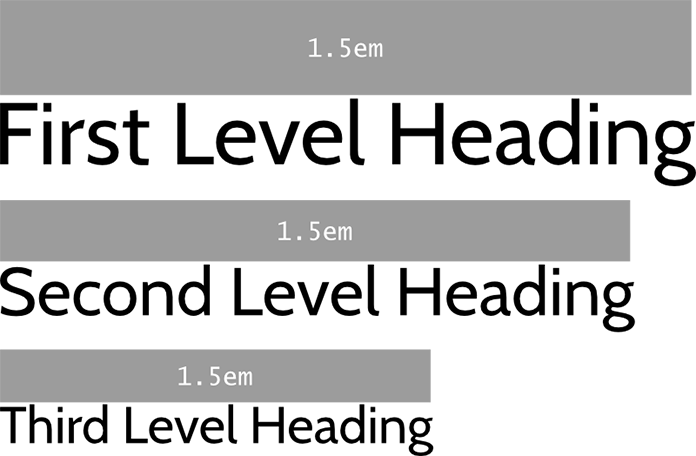
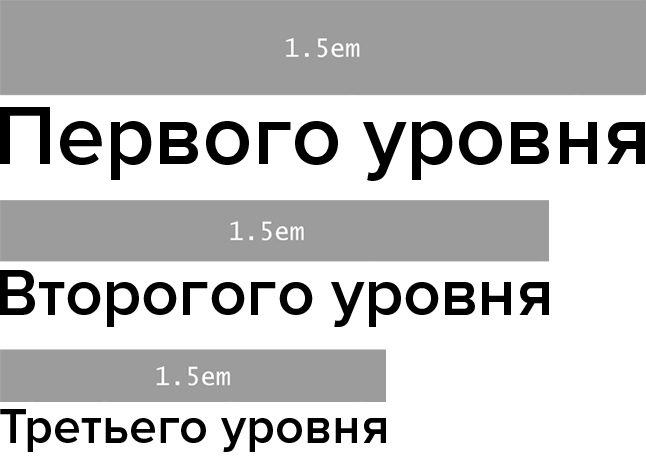
перевод

diff --git a/rus.md b/rus.md
@@ -1,0 +1,320 @@
+# Аксиоматический CSS и лоботомированные совы.
+
+На последнем [CSS Day][1] в июне я с трепетом представил странный трехсимвольный 
+css-селектор. Он назывался «лоботомированная сова» из за его сходства с пустым
+взглядом взглядом этой птички и это оказалась самая популярная часть [моего доклада][2].
+
+Я не могу сказать что вызывало их восторг, идея или, напротив, они нервно 
+хохотали над дерзостью использования столь странной и очевидно бесполезной 
+конструкции. Или возможно я невольно оказался в комнате полной совопоклонниками. 
+Не знаю.
+
+Селектор лоботомированной совы выглядит так:
+
+    * + *
+
+Несмотря на непочтительное имя и сомнительную форму, селектор лоботимированной 
+совы это не просто игра ума. Это результат продолжительных экспериментов с 
+автоматизацией лаяутов с поточным контентом. Совоселектор это аксиоматичный 
+жадный селектор. Ввиду этого многие усомнятся в целесообразности
+его использования, а то, что я использовал его на продакшене кого то и вовсе 
+повергнет в ужас. Но сейчас я продемонстрирую как этот селектор упростит код, 
+ускорит процесс разработки и поможет автоматизировать произвольный, динамический
+контент.
+
+
+## Стилизация по умолчанию
+
+Почти повсеместно, профессиональные дизайнеры веб-интерфейсов (хорошо, 
+разработчики, или как вам там будет угодно) приучили себя стилизировать
+HTML элементы *по умолчанию*. Мы представляем себе элемент интерфейса и затем
+соответствующим образом стилизируем элемент, который вручную добавляем в разметку. 
+
+Чаще всего мы используем для этого селектор по классу, несмотря на то что он 
+отвечает только за представление, а не семантическое соответствие. В то время, 
+как элементы и большинство атрибутов предопределены и стандартизированы, классы
+предоставляют нам свободу творчества. Классы дают нам контроль.
+
+    .my-module {
+      /* ... */
+    }
+
+CSS фреймворки это в основном библиотеки нестандартизированных, основанных на 
+классах, кодов, предназначенных для того, что бы сформировать явное соответствие 
+между стилями и элементами, к которым они применяются. Их хвалят за то, что с их 
+помощью дизайнеры могут быстро создавать привлекательные внешне интерфейсы и 
+критикуют за неизбежные недостатки в области их доступности, которые проистекают
+из того, что основным является представление (форма), а не контент (функция).
+    
+    <a class="ui-button">Нажми меня</a>
+
+Вне зависимости от того, что вы используете — фреймворк или собственную 
+методологию, такой подход не позволяет подключать к работе далеких от техники
+контент-редакторов. Он требует не только знания разметки, отвечающей за 
+представление, но и доступа к ней, что бы соответствующим образом разметить
+контент. WYSIWYG-редакторы и инструменты вроде маркдауна определенно недостаточно
+сложны для того, что бы необходимость стилизации не усложняла работу с материалами.
+
+
+## Разрастание кода
+
+Вне зависимости от того можешь ли ты создать и поддерживать разметку, отвечающую
+за представление, остается вопрос *а надо ли*. Добавление шифров, отвечающие за 
+представление в изначально лаконичную разметку непременно приведет к её разрастанию, 
+но что мы получим в замен? Это позволит нам упростить таблицы стилей?
+
+Выбрав стилизацию полностью на основе элементов мы ошибочно предполагаем что HTML
+элементы существуют в вакууме, а не являются объектом наследования и не 
+принадлежат своему контексту. Рассматривая элемент как «штуку для которой надо
+написать стили» мы наделяем конкретный элемент избыточным значением и определяем
+для него стили, которые должны были быть определены выше в каскаде. Добавление
+новых модулей в проект приводит к неконтролируемому разрастанию кода. 
+
+
+    .module-new {
+      /* И … что в нем нового? */
+    }
+
+Что касается препроцессоров с их одержимостью переменными и 
+объектно-ориентированными CSS-методологиями, их переиспользуемыми объектами
+классов — с их помощью мы сбрасываем балласт что бы остановить разрастание кода.
+Это одержимость нашей индустрии. Однако большинство из них навязывают философию,
+которая, в первую очередь, и порождает разрастание кода. Некоторые из них даже
+навязывают плоскую структуру css, цитируя [решение проблемы веса селекторов][3] —
+эффективен переход от CSS к SS (*От каскадных таблиц стилей к просто 
+таблицам стилей. Без использования каскада. __Примечание переводчика.__*) и 
+отказ от одного из основных его достоинств.
+
+Я не осуждаю эти подходы, но существуют и другие методы, которые могут оказаться 
+при определенных условиях более эффективны. А теперь пристегните ремни.
+
+## Производительность селекторов
+
+Я прощаю то, что некоторые из вас начали качать головами в неодобрении увидев 
+два астериска в селекторе `* + *` в начале статьи. Вот прецедент. 
+[Универсальный селектор][4] это действительно мощный инструмент. И его можно 
+использовать во благо, не только во зло. Прежде чем углубиться в это, однако,
+я хотел бы обсудить проблему быстродействия.
+
+Все исследования, которые мне довелось прочесть, включая исследования [Стива Шодерса][5]
+(Steve Souders) и [Бена Фрэйна][6] (Ben Frain), пришли к выводу, что сравнительное
+быстродействие CSS селекторов разных типов показывает, что разница пренебрежительно
+мала. Фактически Фрэйн заключает, что «заморачиваться по поводу селекторов в 
+современных браузерах бесполезно». И я пока не встречал ни одного убедительного
+аргумента опровергающего результаты этих исследований.
+
+Согласно Фрэйну, напротив, это количество CSS-селекторов, разрастание кода, может
+привести к проблемам; особо он упоминает неиспользуемые, но объявленные css-правила. 
+Другими словами, выбирать селекторы по классу за их «скорость» бесполезно, если
+их количество это и есть то, что вызывает настоящие проблемы с производительностью. 
+Ну, это, гигантские JPEGи и веб-шрифты, которые не были урезаны до необходимого
+подмножества символов.
+
+Наоборот, одновременный контроль множества элементов селектора `*` делает код 
+лаконичнее, помогает уменьшить размер файла и улучшить производительность.
+
+*Настоящая* проблема с универсальным селектором в том, что он сам по себе не 
+представляет ничего, кроме «применяем стили, что бы это ни было». Фокус в том, 
+как использовать его для создания более сложных селекторов, учитывающих контекст.
+
+## Разбираемся с отступами
+
+Проблема с ограничением области действия стилей до одного элемента в том, что не
+все должно рассматриваться как *вещь в себе*. Например отступы: отступы это то,
+что разделяет элементы. Само по себе применение верхнего отступа к элементу 
+бессмысленно, вне зависимости от того как часто или редко ты это делаешь. Это 
+все равно что намазать клеем одну сторону объекта до того как ты решишь его 
+приклеить и определишься с тем, куда именно.
+
+    .module-new {
+      margin-bottom: 3em; /* что, каждый раз? */
+    }
+
+
+Что нам нужно, так это выражение (селектор), которое соответствует элементам,
+которым нужен отступ. И это только элементы находящиеся в одном контексте с 
+другими, соседними, элементами. [Селектор соседа][7] делает именно это: используя
+форму `x + n`, мы можем добавить верхний отступ любому элементу `n`, перед которым
+есть `x`. 
+
+В обычном случае эта задача очень быстро приведет к описанию множества возможных 
+случаев, если мы начнем создавать правила для каждого варианта соседства. Вот
+почем мы используем вышеупомянутый универсальный селектор, создавая мордочку
+совы. Аксиома следующая: «Все элементы в потоке, которые расположены после другого 
+элемента, должны получить верхний отступ равный интерлиньяжу».
+
+    * + * {
+      margin-top: 1.5em;
+    }
+
+### Предрасположенность к ошибкам
+
+Предполагая, что размер кегля шрифта параграфов `1 em` и интерлиньяж `1.5 em`,
+устанавливаем отступ в одну строку всем элементам в потоке, которые следуют
+за другим элементом в любых вариациях и в любом порядке. И мы, разработчики, и
+ребята, которые создают контент проекта, можем не волноваться о том, что забыли
+элемент и не прописали использование стандартного отступа, когда он идет после
+другого элемента. Что бы добиться этого стандартными методами мы должны 
+определять отступы для каждого отдельного элемента. Скучно, долго и 
+предрасполагает к ошибкам.
+
+Вместо того, что бы писать стили мы создали аксиому: всеобъемлющий принцип для 
+лаяута с поточным контентом.
+
+### Учитываем контекст
+
+
+Можно сделать еще лучше. Применяя отступ исключительно между элементами мы не 
+создаем никаких лишних отступов (ненужный клей), обреченных комбинироваться с 
+полями родительского элемента. Сравните решение (a), которое добавляет верхний 
+отступ ко всем элементам с решением (б), которое использует совиный селектор.
+
+![Диаграмма][Элемент с отступами с и без использования совиного селектора]
+
+Теперь давайте рассмотрим поведение с учетом вложенности. Как показано, при 
+использовании совиного селектора и `margin-top` ни первый, ни последний элемент
+не обладают ненужным отступом. Когда вы создаете подмножество таких элементов,
+оборачивая их в родительский элемент, применяется то же правило. Никаких лишних
+отступов вне зависимости от уровня вложенности. Это решение с некоторой 
+элегантностью препятствует накоплению отступов в интерфейсе. 
+
+![Диаграмма][Вложенные элементы с отступами с и без использования совиного селектора]
+
+Это в высшей степени более лаконично и надежно, чем неаксиоматичный подход и 
+необходимость подчищать лишний клей *постфактум*, как с неохотой признал Крис
+Койер (Chris Coyier) в «[Отступы после модулей][10]». Именно эта статья,
+надо заметить, подсказала мне идею лоботимированной совы.
+ 
+    .module > *:last-child,
+    .module > *:last-child > *:last-child,
+    .module > *:last-child > *:last-child > *:last-child {
+      margin: 0;
+    }
+
+Обратите внимание что все это работает только в контексте «модуля» (это была
+большая просьба от редактора контента) и требует оценивать возможную степень 
+вложенности. В данном случае до третьего уровня вложенности.
+
+## Дизайн на основе исключений
+
+Пока нам не потребовалось именовать ни один элемент. Мы просто написали правило.
+Теперь мы можем воспользоваться достоинствами [низкого веса][11] совиного селектора
+и начать вдумчиво добавлять исключения, используя достоинства каскада, вместо 
+того, что бы осуждать его использование, как это происходит в других методах.
+
+### Книжные параграфы с выключкой по ширине
+
+    p {
+      text-align: justify;
+    }
+    
+    p + p {
+    margin-top: 0;
+    text-indent: 2em;
+    }
+
+Обратите внимание что абзацный отступ добавлен только тем параграфам, которые 
+следуют за другими, что еще одна заслуга селектора ближайшего соседа.
+
+### Компактные модули
+
+    .compact * + * {
+      margin-top: 0.75em;
+    }
+
+You can employ a little class-based object orientation if you like, to create a
+reusable style for more compact modules. In this example, all elements that need
+margin receive a margin of only half a line.
+
+Можете насладиться небольшим отступом к объектно ориентированным методам, если
+хотите, и создать небольшой приспособленный для повторного использования стиль
+для компактных модулей. Например, все элементы которые требуют отступа получат
+отступ только в половину интерлиньяжа.
+
+### Виджеты с позиционированием
+
+    .margins-off > * {
+      margin-top: 0;
+    }
+
+Совиный селектор обладает низкой спецификой и будет применяться так же и к 
+виджетам, таким как карты, где все позиционировано точно. Это — простой 
+способ его отменить. Все чаще виджеты, вроде этого, исполняются в виде 
+веб-компонент, в которых это правило все равно бы не наследовалось. Это происходит
+благодаря [инкапсуляции стилей в теневом DOM][12].
+
+## Красота `em`
+
+Однако некоторые исключения неизбежны, из за использования единиц `em` для 
+определения размера отступа, они уже сами по себе автоматически изменяются
+из за другого свойства: `@media` запросов.
+
+Когда доходит до заголовков, нам повезло несколько больше. Определив кегль шрифта 
+заголовка в `em` мы сразу получаем соответствующий заголовку отступ (отступ лида) 
+не написав ни единой дополнительной строки кода.
+
+![Диаграмма][Автоматическое изменение отступа на основе кегля шрифта]
+
+
+## Строчные элементы
+
+Предполагается что объявленные стили должны наследоваться. Вот как это, и CSS
+в целом, задумано. Однако я понимаю как раздражает многих из вас то, насколько
+этот селектор жадный. Особенно после того, как эти люди привыкли избегать 
+наследования насколько, насколько это вообще возможно. 
+
+Я уже рассмотрел несколько исключений, которые вы, возможно захотите сделать, но
+давайте пойдем дальше, помните, что строчные элементы со стандартным значением 
+`display: inline` тоже унаследуют верхний отступ, но он не повлияет на их 
+отображение. Строчные элементы принимают только горизонтальные отступы, что
+является их стандартным поведением во всех браузерах.
+
+![Диаграмма][Строчные элементы с отступом]
+
+Если вы часто перезаписываете совиный селектор, то в дизайне могут быть 
+глубокие системные проблемы. Совиный селектор работает с поточным контентом, 
+и он должен быть основным на странице. Я бы не советовал сильно полагаться на
+позиционированный контент в большинстве интерфейсов так как они нарушают неявное
+взаимодействие элементов в рамках потока. Даже сетки, с их флоат-колонками не 
+должны требовать чего то большего, чем простой селектор `.row > *`, применяющий
+к ним `margin-top: 0`, что бы сбросить отступ. 
+
+![Диаграмма][Флоат-элементы с отступом]
+
+
+## Заключение
+
+Я плохой математик, но [Начала Эвклида][16] произвели на меня большое 
+впечатление: набор тривиальных правил, или аксиом, которые формируют основу для
+сложного и прекрасного предмета геометрии. Благодаря Эвклиду я понимаю, что 
+даже наиболее сложные системы должны быть основаны на элементарных правилах и
+CSS тоже подпадает под это правило. Кроме того, разбиение на модули сложного 
+интерфейса это необходимый шаг его взросления, любой интерфейс, который не 
+следует базовым регулирующим его принципам, потеряет свою прозрачность. 
+
+Совиный селектор дает вам контроль над поточным контентом, но кроме того это еще и
+способ отказа от контроля. Стилизируя элементы в соответствии контексту и 
+обстоятельствам мы принимаем то, что структура нашего контента является и должна
+быть изменчивой. Вместо того что бы предопределять представление интерфейса в
+целом мы позволяем определять его контенту. Мы возвращаем контроль людям, которые
+его создают.
+
+[1]: http://cssday.nl/2014
+[2]: http://vimeo.com/101718785
+[3]: http://www.impressivewebs.com/css-specificity-irrelevant/
+[4]: http://meyerweb.com/eric/articles/webrev/200006a.html
+[5]: http://www.stevesouders.com/blog/2009/03/10/performance-impact-of-css-selectors/
+[6]: http://benfrain.com/css-performance-revisited-selectors-bloat-expensive-styles/
+[7]: https://developer.mozilla.org/en-US/docs/Web/CSS/Adjacent_sibling_selectors
+[10]: http://css-tricks.com/spacing-the-bottom-of-modules/
+[11]: http://css-tricks.com/specifics-on-css-specificity/
+[12]: http://frontender.info/shadowdom-201/
+[16]: http://en.wikipedia.org/wiki/Euclidean_geometry#Axioms
+[17]: http://alistapart.com/article/the-specialized-web-working-with-subject-matter-experts
+
+
+[Элемент с отступами с и без использования совиного селектора]: img/owl_1.png "Элемент с отступами с и без использования совиного селектора"
+[Вложенные элементы с отступами с и без использования совиного селектора]: img/owl_2.png "Вложенные элементы с отступами с и без использования совиного селектора"
+[Автоматическое изменение отступа на основе кегля шрифта]: img/owl_3.png "Автоматическое изменение отступа на основе кегля шрифта"
+[Строчные элементы с отступом]: img/owl_4.png "Строчные элементы с отступом"
+[Флоат-элементы с отступом]: img/owl_5.png "Флоат-элементы с отступом"
